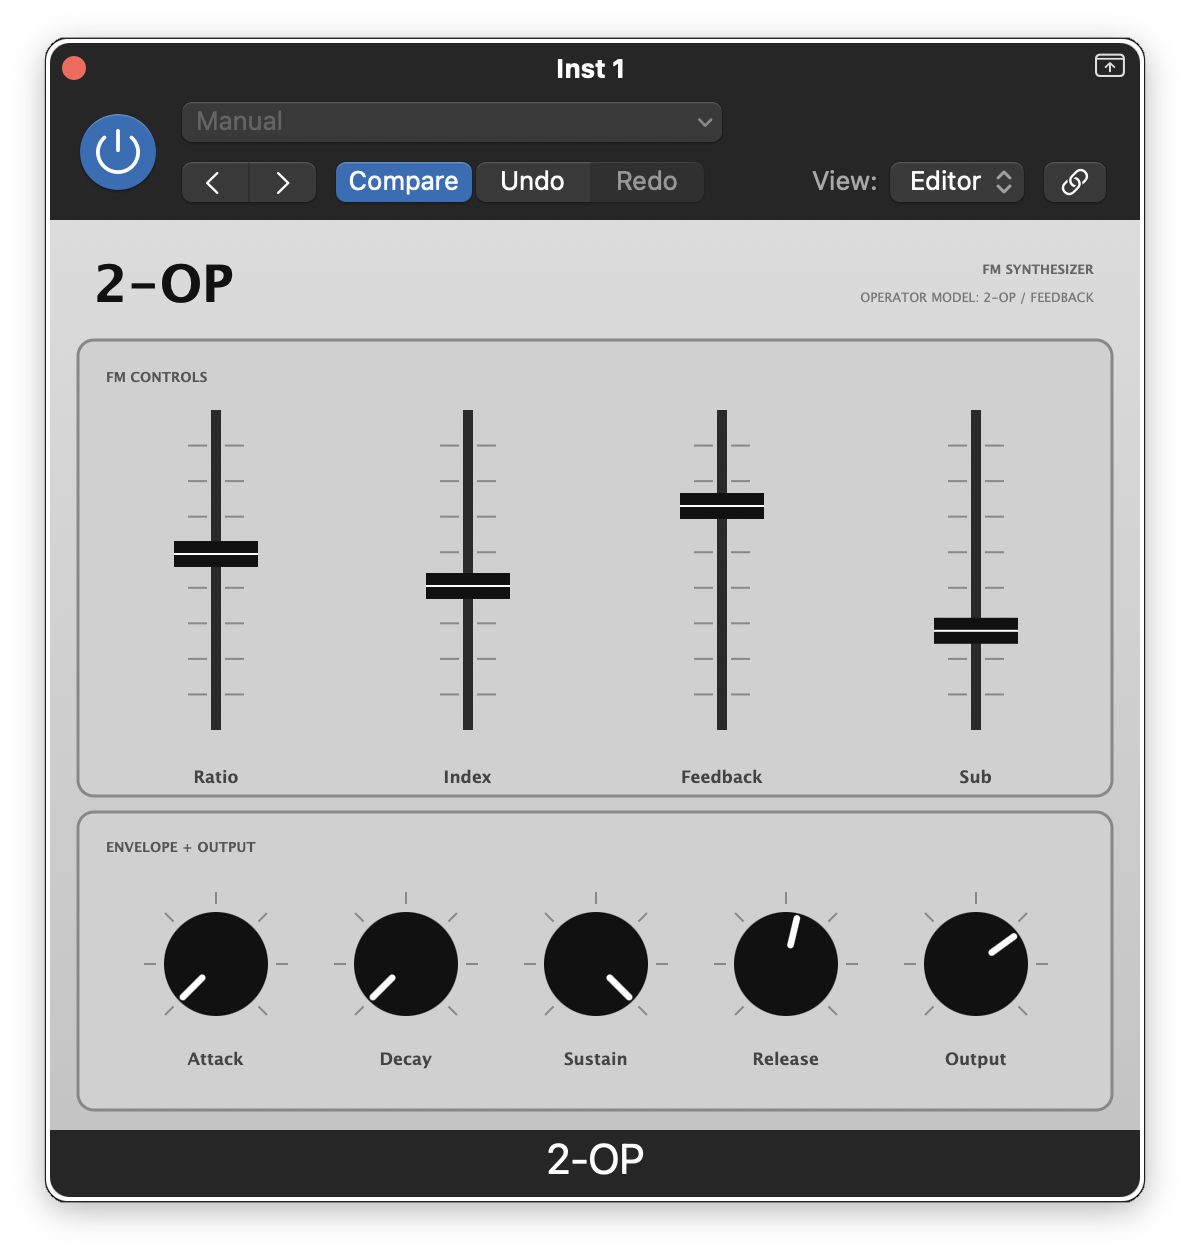
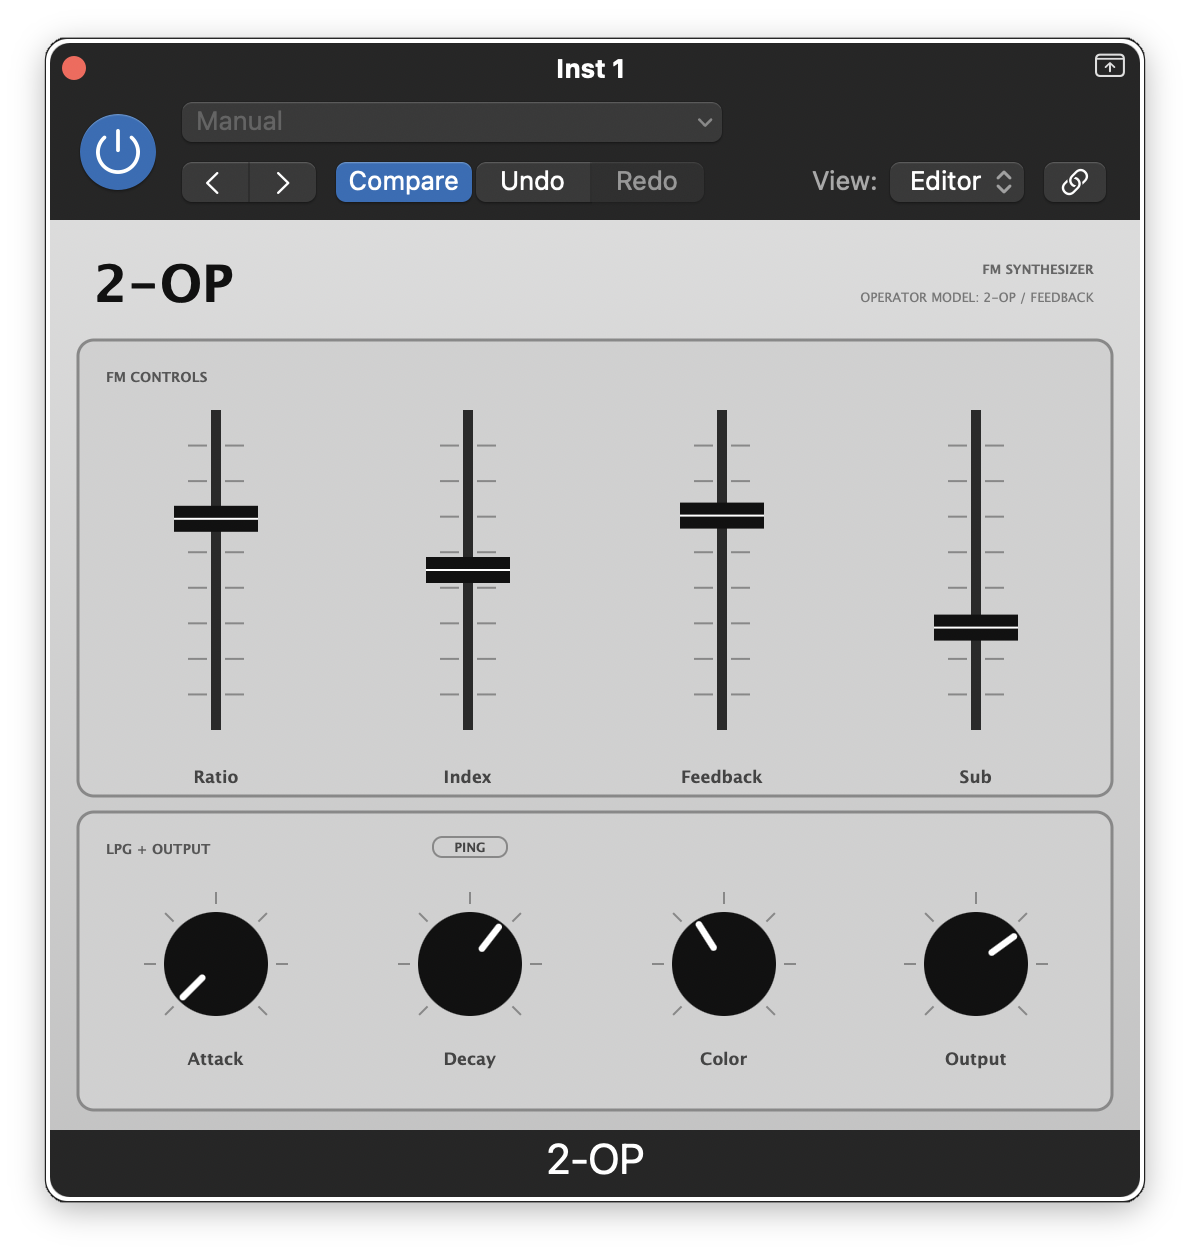
2-OP: refine PING pill layout and update README
- Pill always reads "PING"; fill state indicates active mode (outlined = gate, filled = ping)
- Move pill to Decay column, reduce width to 38px, align vertically with section label text
- Extract kLPGHeaderY/H and kPillW/H/YOffset constants; eliminate magic numbers in setBounds
- README: rewrite 2-OP section to document LPG, Gate/Ping toggle, Color/Output knobs,
  velocity behaviour, and Shift fine-tune mode

diff --git a/2-OP/src/PluginEditor.cpp b/2-OP/src/PluginEditor.cpp
@@ -44,6 +44,17 @@ namespace {
     constexpr int kKnobLabelY  = 412;
     constexpr int kKnobLabelH  = 14;
     constexpr int kKnobLabelW  = 80;
+
+    // ── LPG section header ─────────────────────────────────────────────────
+    constexpr int kLPGHeaderY  = 304;
+    constexpr int kLPGHeaderH  = 14;
+
+    // ── Ping pill ──────────────────────────────────────────────────────────
+    constexpr int kPillW       = 38;
+    constexpr int kPillH       = 11;
+    // bottomLeft label text visual center sits ~9px into the 14px header rect;
+    // offset pill so its centre matches.
+    constexpr int kPillYOffset = 9 - kPillH / 2;  // = 3
 }
 
 //==============================================================================
@@ -171,7 +182,7 @@ void PillLookAndFeel::drawToggleButton (juce::Graphics& g, juce::ToggleButton& b
     }
 
     g.setFont (juce::Font (juce::FontOptions().withHeight (7.5f).withStyle ("Bold")));
-    g.drawText (b.getToggleState() ? "PING" : "GATE",
+    g.drawText ("PING",
                 0, 0, (int) w, (int) h, juce::Justification::centred);
 }
 
@@ -292,7 +303,7 @@ void TwoOpFMAudioProcessorEditor::paint (juce::Graphics& g)
 
     g.setColour (juce::Colour (0xff555555));
     g.setFont (juce::Font (juce::FontOptions().withHeight (8.0f).withStyle ("Bold")));
-    g.drawText ("LPG + OUTPUT", 28, 304, 250, 14, juce::Justification::bottomLeft);
+    g.drawText ("LPG + OUTPUT", 28, kLPGHeaderY, 250, kLPGHeaderH, juce::Justification::bottomLeft);
 
 }
 
@@ -321,6 +332,6 @@ void TwoOpFMAudioProcessorEditor::resized()
         knobNames[i]->setBounds (cx - kKnobLabelW / 2, kKnobLabelY, kKnobLabelW, kKnobLabelH);
     }
 
-    // Pill toggle: centered on Output knob column, vertically centered in label row.
-    pingButton_.setBounds (463 - 28, 304 + (14 - 11) / 2, 56, 11);
+    // Pill toggle: centered on Decay knob column, vertically centered in label row.
+    pingButton_.setBounds (kKnobColX[1] - kPillW / 2, kLPGHeaderY + kPillYOffset, kPillW, kPillH);
 }

diff --git a/README.md b/README.md
@@ -14,9 +14,9 @@ A collection of macOS Audio Unit plugins built with [JUCE](https://juce.com).
 
 ![2-OP](docs/2-op.png)
 
-A monophonic 2-operator FM synthesizer. The DSP engine is the `FMEngine` from [Mutable Instruments Plaits](https://github.com/pichenettes/eurorack), adapted for standard sample rates and wrapped with a custom ADSR envelope. MIDI is handled sample-accurately; pitch bend is ±2 semitones.
+A monophonic 2-operator FM synthesizer. The DSP engine is the `FMEngine` from [Mutable Instruments Plaits](https://github.com/pichenettes/eurorack), adapted for standard sample rates. The amplitude/filter stage is a Plaits-style LPG (low-pass gate): a vactrol simulation feeding a combined SVF lowpass filter + VCA, giving the characteristic bloom and soft roll-off of a Buchla-style circuit. MIDI is handled sample-accurately; pitch bend is ±2 semitones; velocity scales both output amplitude and FM timbre.
 
-**Parameters**
+**FM Controls** (sliders)
 
 | Parameter | Description |
 |-----------|-------------|
@@ -24,7 +24,22 @@ A monophonic 2-operator FM synthesizer. The DSP engine is the `FMEngine` from [M
 | Index | Modulation depth |
 | Feedback | Operator self-feedback |
 | Sub | Blend of sub-octave carrier output |
-| Attack / Decay / Sustain / Release | Amplitude envelope (skewed time ranges for musical feel) |
+
+Hold Shift while dragging any slider for fine-tune resolution.
+
+**LPG + Output** (knobs)
+
+| Parameter | Description |
+|-----------|-------------|
+| Attack | LPG gate open time (only active in Gate mode) |
+| Decay | Vactrol release time |
+| Color | Tilt between lowpass filter and pure VCA (low = darker bloom, high = open VCA) |
+| Output | Output level (dB) |
+
+**PING toggle** — selects the LPG trigger mode:
+
+- **Outlined (Gate)**: LPG follows the MIDI gate. Attack ramps to velocity on note-on; release decays on note-off.
+- **Filled (Ping)**: Each note-on fires a single pitch-proportional impulse into the vactrol, which then decays freely. Holding a key has no effect — every note is a transient.
 
 **Format**: AU Instrument (`aumu`) · `com.CorvidAudio.TwoOpFM`
 
